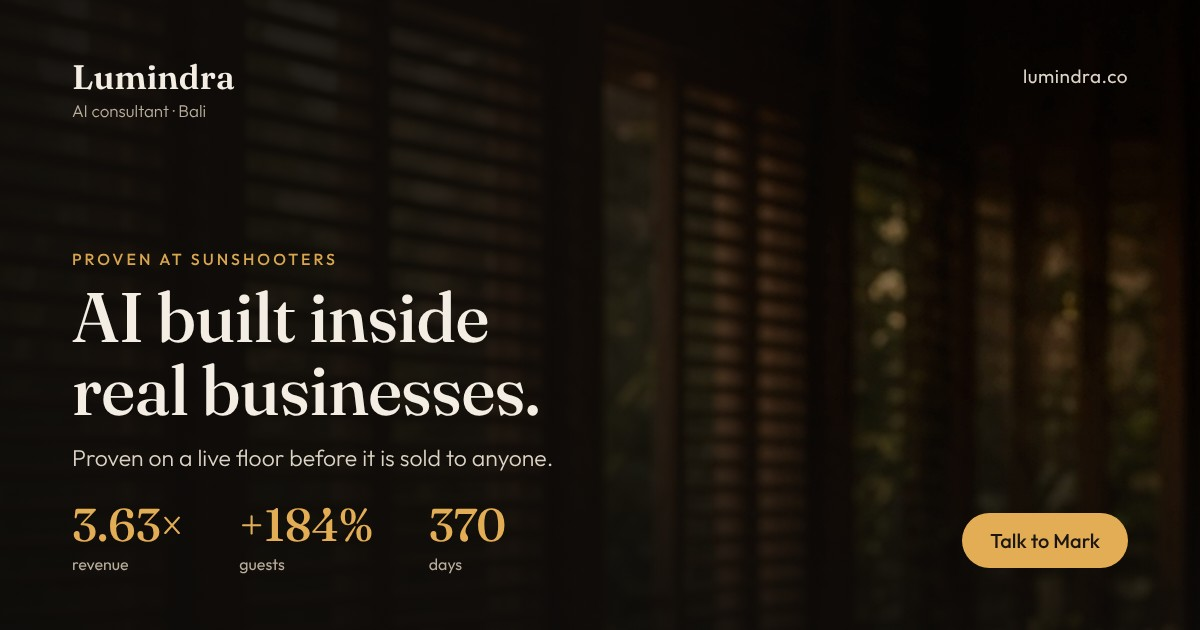
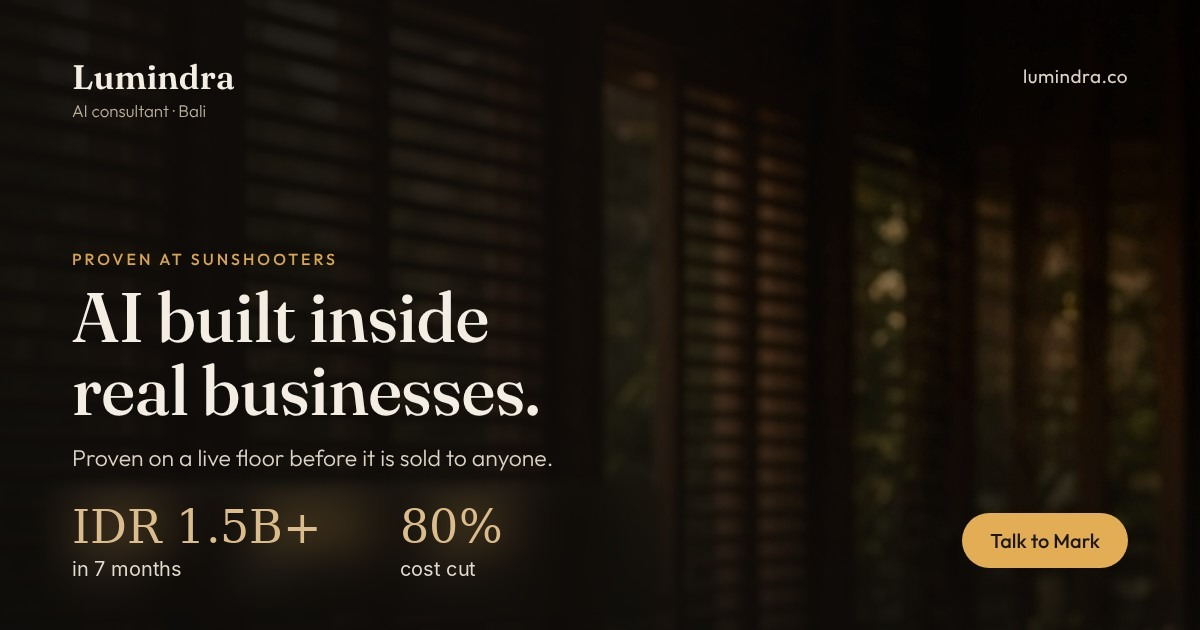
Update share image to IDR 1.5B+ and 80% figures; replace crisis-counsellor credential with Positive Psychology certification
Claude-Session: https://claude.ai/code/session_016hs7PJxgMSesJL9bVqjiye

Changed region(s): [[0.0617, 0.7841, 0.3083, 0.9349], [0.3392, 0.7841, 0.4317, 0.9349]]

diff --git a/proof.html b/proof.html
@@ -45,7 +45,7 @@
 <div class="cta-row" style="margin-top:26px"><a class="btn btn-primary" href="/case-study-sunshooters">Read the case study</a></div></div>
 <figure class="photo reveal" style="--d:.12s"><img src="/assets/img/staff.jpg" alt="The Sunshooters team" loading="lazy" style="max-width:420px;margin:auto"><figcaption>The Sunshooters team</figcaption></figure></div></div></section>
 <section class="alt"><div class="wrap"><div class="split2 rev"><div class="reveal"><div class="eyebrow">The founder</div><h2>Real operator. <span class="serif metal">Not just an advisor.</span></h2>
-<ul class="ticks"><li>Former COO of Bali Realty, Bali's leading property agency</li><li>35+ years across hospitality, operations, leadership and growth</li><li>International operating background: Australia, United Kingdom, Bali</li><li>Associate Diploma of Hospitality Management and Advanced Certificate in Commercial Catering</li><li>Published author, trained crisis counsellor, public speaker</li><li>Founding member, Bali AI Founders Club</li></ul>
+<ul class="ticks"><li>Former COO of Bali Realty, Bali's leading property agency</li><li>35+ years across hospitality, operations, leadership and growth</li><li>International operating background: Australia, United Kingdom, Bali</li><li>Associate Diploma of Hospitality Management and Advanced Certificate in Commercial Catering</li><li>Published author, Positive Psychology certified, public speaker</li><li>Founding member, Bali AI Founders Club</li></ul>
 <div class="cta-row" style="margin-top:26px"><a class="btn btn-ghost" href="/about-mark-tulloch">Full profile</a></div></div>
 <figure class="photo reveal" style="--d:.12s"><img src="/assets/img/mark-bw.jpg" alt="Mark Tulloch" loading="lazy"><figcaption>Mark Tulloch, founder</figcaption></figure></div></div></section>
 <section><div class="wrap"><div class="reveal"><div class="eyebrow">Why Lumindra exists</div><h2>Most AI advice falls apart <span class="serif metal">on a Friday night shift.</span></h2></div>

diff --git a/hub/index.html b/hub/index.html
@@ -366,7 +366,7 @@ h3{font-size:25px;color:var(--gold-hi);margin-bottom:6px}
         <li>35+ years across hospitality, operations, leadership and growth</li>
         <li>Operating background in Australia, the United Kingdom and Bali</li>
         <li>Associate Diploma of Hospitality Management and Advanced Certificate in Commercial Catering</li>
-        <li>Published author, trained crisis counsellor, public speaker</li>
+        <li>Published author, Positive Psychology certified, public speaker</li>
         <li>Founding member, Bali AI Founders Club</li>
       </ul>
       <div class="row"><a class="btn" href="/about-mark-tulloch">Full profile</a></div>
